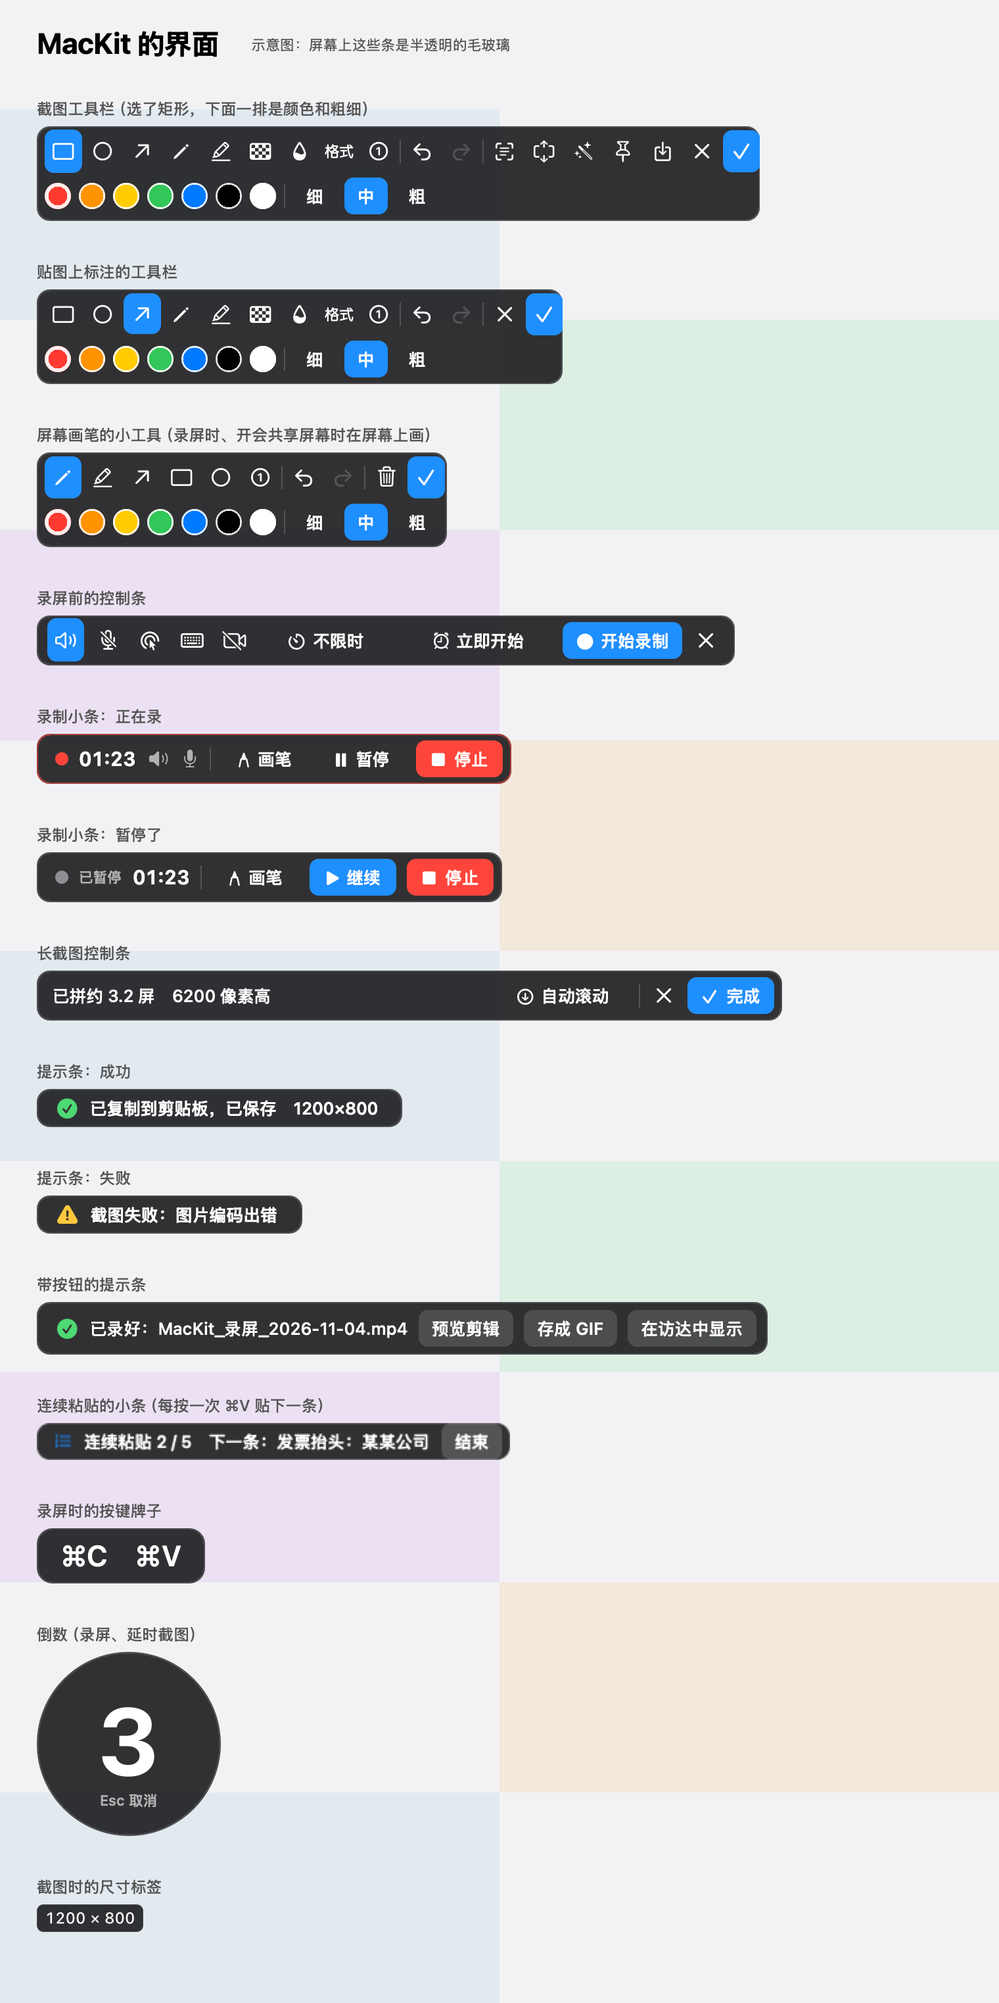
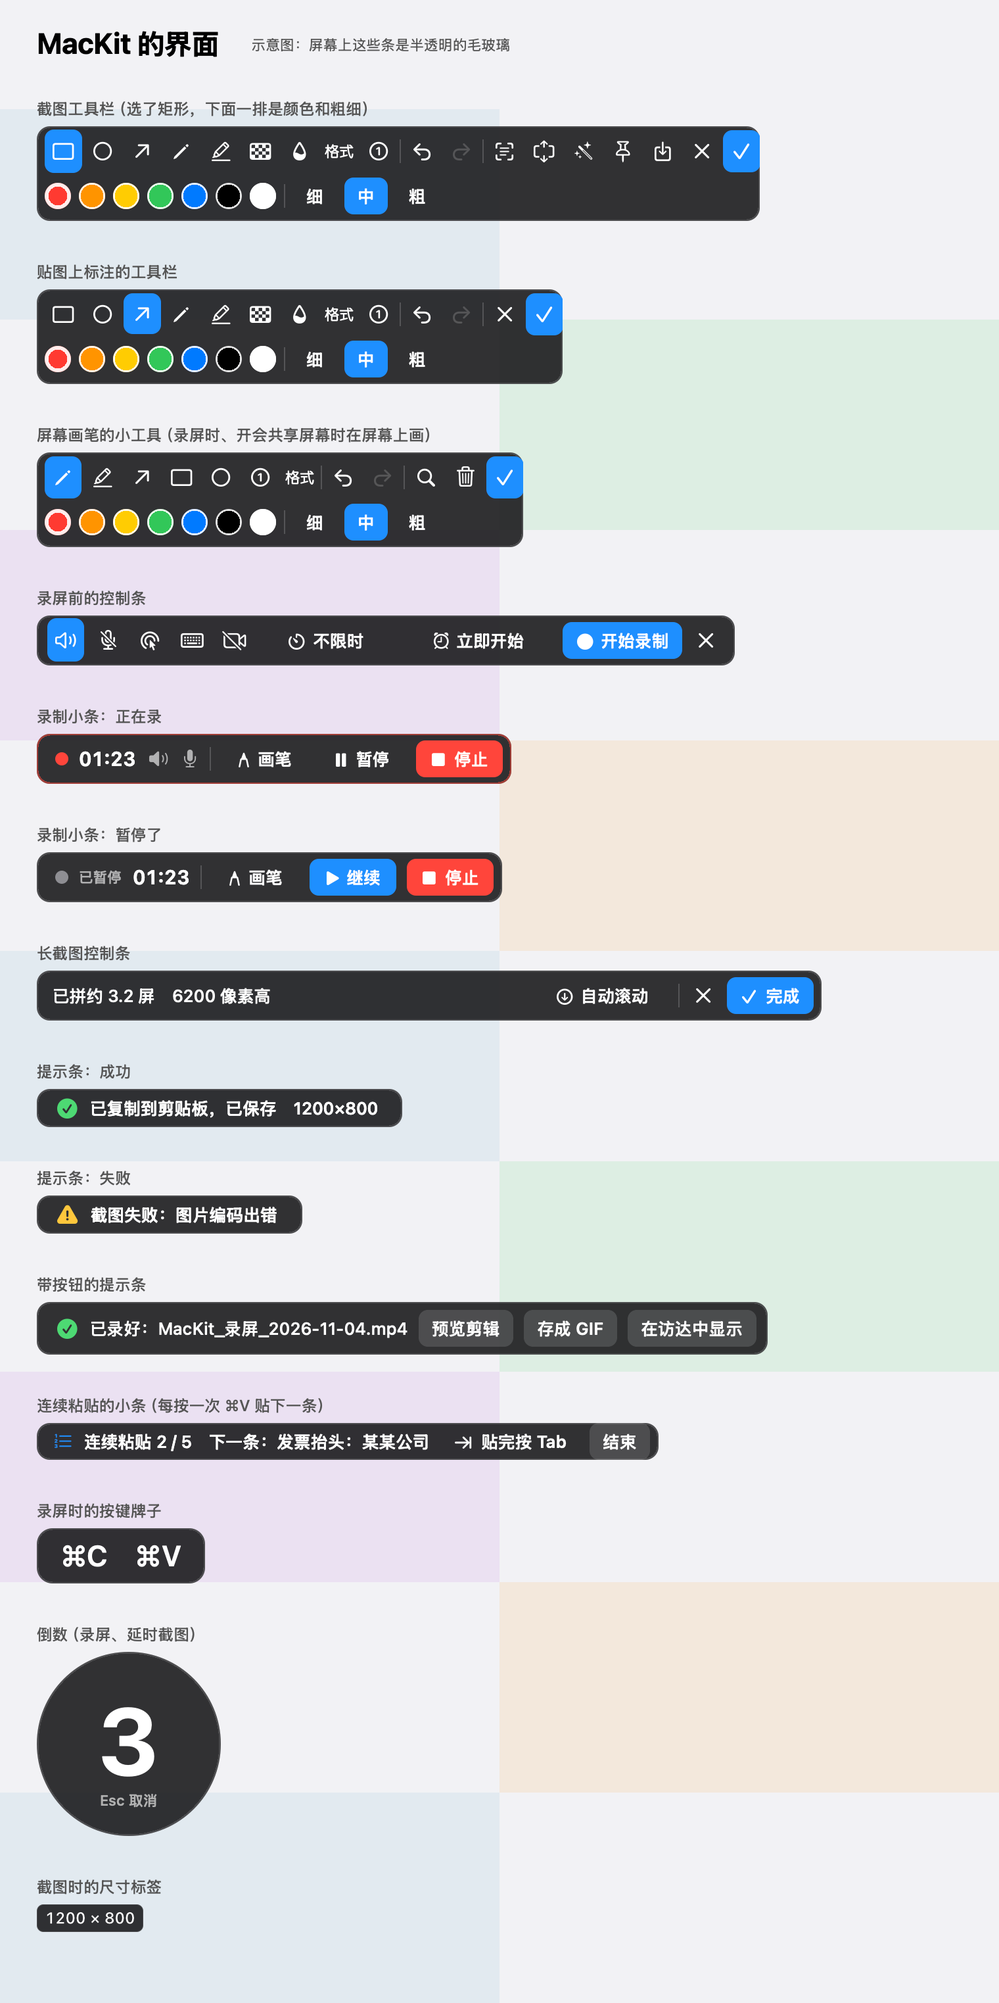
MacKit 3.0.0（台阶 26）
- 发布版改用"MacKit"自签证书签名：从 3.0 往后更新不用重给权限（release.sh 找不到证书就停；--test-update 试"同一个软件"）
- 从 2.x 升上来第一次打开弹一次"MacKit 3.0 装好了"
- 修好：开着识别结果窗口时剪贴板小窗口可能关不掉
- README 补第三版和升级说明；重画界面一览、欢迎窗口；CHANGELOG 3.0.0
- .gitignore 防证书备份进仓库

diff --git a/MacKit/App/SelfTest.swift b/MacKit/App/SelfTest.swift
@@ -1699,6 +1699,13 @@ enum SelfTest {
         func enter() { _ = panel.control(panel.searchField, textView: NSTextView(), doCommandBy: #selector(NSResponder.insertNewline(_:))) }
         func favorite(_ item: ClipboardItem) -> ClipboardItem? { store.items.first { $0.id == item.id } }
 
+        // 11-09 修：关掉识别结果窗口时 MacKit 藏起自己，小窗口跟着被藏、再关不算数 → 关不掉
+        check(!panel.window.canHide, "剪贴板小窗口不跟着\u{201C}隐藏 MacKit\u{201D}一起藏（藏着时关掉会被系统放回来，关不掉）")
+        let stray = tool.makePanel()
+        stray.show(near: CGPoint(x: 400, y: 400), present: false)
+        stray.forceClose()
+        check(ClipboardPanel.visible == nil && !stray.window.isVisible, "旧的小窗口能强制收掉（开新的之前先收旧的）")
+        panel.show(near: CGPoint(x: 400, y: 400), present: false)
         // ⌘G → 新建分组…：还没收藏的先收藏，再放进新组
         check(ClipboardPanel.footerText.contains("⌘G 分组") && ClipboardPanel.footerText.contains("⌘T 改格式粘贴"),
               "小窗口下面的提示里有 ⌘G 分组、⌘T 改格式粘贴")
@@ -3014,6 +3021,18 @@ enum SelfTest {
         check(WhatsNew.message(for: "2.0.0").hasPrefix("MacKit 2.0 装好了") && whatsNew.frame.width < 760 && !whatsNew.isVisible
               && AppLinks.releaseNotes("2.0.0").absoluteString == "https://github.com/itzzan/MacKit/releases/tag/v2.0.0",
               "提示条写着\u{201C}MacKit 2.0 装好了\u{201D}，\u{201C}看看都有什么\u{201D}打开 GitHub 上 2.0 的更新说明（\(Int(whatsNew.frame.width)) 点宽）")
+        // 台阶 26：从 2.x 升到 3.0 弹一次（写上新东西和"这一次要重给权限"），3.0 以后的小更新不弹
+        check(WhatsNew.shouldShow(firstLaunch: .nothing, lastVersion: "2.7.0", current: "3.0.0")
+              && !WhatsNew.shouldShow(firstLaunch: .nothing, lastVersion: "3.0.0", current: "3.0.1")
+              && !WhatsNew.shouldShow(firstLaunch: .nothing, lastVersion: "3.0.0", current: "3.1.0")
+              && !WhatsNew.shouldShow(firstLaunch: .welcome, lastVersion: nil, current: "3.0.0"),
+              "从 2.x 升到 3.0：第一次打开弹一次；3.0.1、3.1 不弹；新用户不弹")
+        let whatsNew3 = Toast.makeActionsPanel(WhatsNew.message(for: "3.0.0"), actions: [("看看都有什么", {})])
+        check(WhatsNew.message(for: "3.0.0").hasPrefix("MacKit 3.0 装好了：标注能多选、长截图能横着拼")
+              && WhatsNew.message(for: "3.0.0").contains("以后更新就不用了") && WhatsNew.message(for: "2.0.0").hasPrefix("MacKit 2.0 装好了")
+              && whatsNew3.frame.width < 820 && !whatsNew3.isVisible
+              && AppLinks.releaseNotes("3.0.0").absoluteString == "https://github.com/itzzan/MacKit/releases/tag/v3.0.0",
+              "3.0 的提示条：写着新东西和这一次要重给权限，两行（\(Int(whatsNew3.frame.width)) 点宽），\u{201C}看看都有什么\u{201D}打开 3.0 的更新说明")
         let parts = AppInfo.version.split(separator: ".").compactMap { Int($0) }
         check(parts.count == 3 && parts[0] >= 1, "版本号是三段数字、1 以上：\(AppInfo.version)")
     }

diff --git a/MacKit/Tools/Clipboard/ClipboardPanel.swift b/MacKit/Tools/Clipboard/ClipboardPanel.swift
@@ -76,6 +76,9 @@ final class ClipboardPanel: NSObject, NSTableViewDataSource, NSTableViewDelegate
         window.hasShadow = true
         window.isReleasedWhenClosed = false
         window.hidesOnDeactivate = false
+        // 别跟着"隐藏 MacKit"一起藏：关掉识别结果这类窗口时 MacKit 会把自己藏起来交还焦点，
+        // 小窗口要是那一刻被藏着，再关它就不算数，系统下次又把它放回来，成了关不掉的空壳（11-09 你碰到的）
+        window.canHide = false
         window.animationBehavior = .none
         window.collectionBehavior = [.canJoinAllSpaces, .fullScreenAuxiliary, .transient, .ignoresCycle]
         window.delegate = self
@@ -212,6 +215,12 @@ final class ClipboardPanel: NSObject, NSTableViewDataSource, NSTableViewDelegate
         Self.visible = nil
         window.orderOut(nil)
         if returnFocus, NSApp.isActive, NSApp.modalWindow == nil { NSApp.hide(nil) }
+    }
+
+    /// 不管现在登记的是不是它，都收起来（开新的小窗口之前把旧的收干净）
+    func forceClose() {
+        if Self.visible === self { Self.visible = nil }
+        window.orderOut(nil)
     }
 
     func windowDidResignKey(_ notification: Notification) {

diff --git a/MacKit/Core/Settings.swift b/MacKit/Core/Settings.swift
@@ -476,6 +476,10 @@ enum WhatsNew {
 
     static func message(for version: String) -> String {
         let major = AppVersion.parts(version).first ?? 2
+        if major >= 3 {        // 台阶 26：换了签名，从 2.x 升上来这一次要重给权限
+            return "MacKit \(major).0 装好了：标注能多选、长截图能横着拼、录屏能自动推近、剪贴板能分组、测量能量间距\n"
+                + "这一次要重新打开屏幕录制、辅助功能权限，以后更新就不用了"
+        }
         return "MacKit \(major).0 装好了：截图能美化、剪贴板能收藏、设置都在菜单最下面"
     }
 }

diff --git a/MacKit/Tools/Clipboard/ClipboardTool.swift b/MacKit/Tools/Clipboard/ClipboardTool.swift
@@ -66,6 +66,9 @@ final class ClipboardTool: ToolModule {
             return
         }
         guard SelectionSession.active == nil, MeasureSession.active == nil else { return }    // 截图、测量中不弹
+        // 开新的之前，把旧的小窗口（万一还在屏幕上）都收掉，屏幕上最多只有一个
+        panel?.forceClose()
+        for w in NSApp.windows where w is ClipboardPanelWindow && w.isVisible { w.orderOut(nil) }
         let p = makePanel()
         panel = p
         p.show(near: NSEvent.mouseLocation)

diff --git a/docs/开发记录/台阶26-发布3.0.md b/docs/开发记录/台阶26-发布3.0.md
@@ -1,4 +1,4 @@
-# 台阶 26：发布 MacKit 3.0（以后更新不用重给权限）— 任务单（已拍板）
+# 台阶 26：发布 MacKit 3.0（以后更新不用重给权限）— 任务单（已拍板，11-12 发布）
 
 > 2026-11-06 写，同日你审过：四条都按建议。第三版的最后一阶：把台阶 19–25 做的东西一起公开发布成 3.0。原来排在台阶 25，你加了横向长截图，顺延成 26。
 > 第三版方案已拍板（第 4 条）：发布版改用一张专门给 MacKit 的签名证书，以后更新不用重给权限；证书名字写"MacKit"，你在"钥匙串访问"里做，要备份。
@@ -84,6 +84,55 @@
 4. README 里的图
    - A. 重画"界面一览"（多了上下层按钮、画笔的文字和放大镜、"贴完按 Tab"）和"欢迎窗口"（3.0.0）；"设置窗口"那张画的是快捷键页，没变，不动（建议）；都是 MacKit 自己画的，不截你的屏幕
    - B. 只改文字，图不动
+
+## 做了什么、自动检查了什么（11-06，发布前的收拾）
+
+| 检查 | 结果 |
+|---|---|
+| 单元测试 241 条 | 全过 |
+| 编译（Xcode 26.3） | 没有错误和警告 |
+| 应用自检 615 条（新增 2 条：从 2.x 升到 3.0 弹一次、3.0.1 / 3.1 / 新用户不弹；3.0 的提示条两行 702 点宽，"看看都有什么"打开 v3.0.0 的更新说明） | 全过 |
+| 你这台装 3.0.0 | ⌘1–⌘6 照旧注册，剪贴板 148 条都在；日志里"whats new 3.0.0"，弹了一次提示条 |
+| release.sh 试跑（不用证书、临时签名） | 签名和包里的检查都过；另打的测试版 2.7.1 **不符合** 2.7.0 的签名要求（要求里写死了那一个包的指纹）——正好说明临时签名为什么每次都丢权限；换成"MacKit"证书以后，要求写的是"这张证书"，新版本就符合了（等你做好证书再实测） |
+
+改了哪些：
+- release.sh：默认用钥匙串里的"MacKit"证书签名，找不到就停下、说去哪看怎么做；签名里只许有"MacKit"这一张证书，取出证书看上面只有名字（有邮箱、单位、城市就停）；原来的团队编号、开发证书名字、邮箱检查照旧；加了 --test-update：另打一个下一个版本号的测试包（build/release-test/，名字里写着"别发布"），用系统的签名检查确认它和正式包是同一个软件；最后把"签名要求"打出来
+- .gitignore：加上 *.p12、*.cer、*.certSigningRequest
+- 老用户提示：3.x 写"MacKit 3.0 装好了：标注能多选、长截图能横着拼、录屏能自动推近、剪贴板能分组、测量能量间距"，第二行"这一次要重新打开屏幕录制、辅助功能权限，以后更新就不用了"（你这台其实不用重给）
+- README：能干什么补上第三版（多选复制上下层、截完调框、美化比例和背景色、长截图横着拼和标注、录屏自动推近）；安装一节加"从 2.x 升级到 3.0"；常见问题"更新后截图不行了"改成 3.0 以后不用重给
+- 两张图重画：界面一览（屏幕画笔小工具多了文字、放大镜，连续粘贴小条多了"贴完按 Tab"，长截图控制条宽了一点）、欢迎窗口（3.0.0）；设置窗口那张没动
+- CHANGELOG："未发布"改成"3.0.0（2026-11-12）"（发布那天），开头加一句第三版是什么、签名和老用户提示两条
+- 版本号 3.0.0（build 31）
+- 更新说明草稿：build/发布说明-3.0.0.md（不进 git；校验码等打好安装包再填）
+
+### 证书（11-09 做好）
+
+- 你没走"证书助理"那十几页，改成在终端里跑我写的一条命令（我先在临时文件夹里试过一遍，没碰你的钥匙串）：用系统自带的 openssl 做一张只写着"MacKit"的代码签名证书，10 年；备份存成 文稿/MacKit-证书备份.p12（密码你自己设、记在密码管理器里）；再放进登录钥匙串，允许 codesign 用
+- 我只读地查过：钥匙串里有一张能签代码的"MacKit"，证书上只有名字（没有邮箱、单位），2036 年 11 月到期；项目文件夹里没有 .p12
+
+### 安装包（11-09）
+
+- scripts/release.sh --test-update 跑完：第一次签名时钥匙串弹窗，你点了"始终允许"
+- build/release/MacKit-3.0.0.dmg：3,675,231 字节，Apple 芯片 + Intel；里面是 MacKit 3.0.0（build 32）和"应用程序"的快捷方式
[1 lines of base64/hex data omitted]
+- 签名：证书只有"MacKit"，没有团队编号，签名有效；包里没有邮箱
+- 签名要求：`identifier "local.mackit.MacKit" and certificate leaf = H"0ae5b42e894c6bc17fdf51ee9a5308b099a39f3b"`——只认"标识 + 这张证书"，不认是哪一个包
+- 测试版 build/release-test/MacKit-3.0.1-测试版-别发布.dmg：**符合 3.0.0 的签名要求**，系统会认成同一个软件，权限不用重给（之前用临时签名试，测试版不符合——这就是以前每次都丢权限的原因）
+- 你这台的"安全性"设置里关掉了 Gatekeeper（任何来源的软件都能开），所以在你这台看不到"仍要打开"那一步；我没动这个设置，真的试装要在另一台 Mac 上走
+
+### 试装（11-12，通过）
+
+- 你在另一台 Mac 上：装 3.0.0 →"仍要打开"→ 开屏幕录制 → 截图能用；换成测试版 3.0.1 → 什么设置都没碰，截图照样能用，"录屏与系统录音"里只有一个 MacKit 开着；再装回正式版 3.0.0
+- 也就是说：从 3.0 往后再发新版本，别人更新不用重给权限
+
+### 你试的时候发现：剪贴板小窗口关不掉（11-09 修好，你试过好了）
+
+- 你说"点击剪贴板，关不掉了"。我只读地查了屏幕上的窗口和 MacKit 的日志：14:26:46 你从菜单打开剪贴板小窗口，那时 13:29 的识别结果窗口还开在后面；14:26:49 识别窗口关掉，最后一个识别窗口关掉时 MacKit 会把自己藏起来交还焦点，小窗口跟着被藏；它这时"失去焦点"去关自己，可藏着的时候关不算数，MacKit 已经忘了它，系统下次 MacKit 出来时又把它放回屏幕——成了没人管的空壳：Esc、点别处、⌘3 都关不掉，⌘3 每按一次还另开一个新的
+- 这不是第三版新出的，2.x 就有，要"识别结果窗口开着 + 用剪贴板 + 关掉识别窗口"凑一起才会碰到
+- 改法：剪贴板小窗口不跟着"隐藏 MacKit"一起藏；每次开新的小窗口之前，把旧的（万一还在）都收掉，屏幕上最多一个
+- 自检新增 2 条（小窗口不跟着藏、旧的能强制收掉），自检 617 条全过；版本号还是 3.0.0（还没发布），build 32，已装好（重开 MacKit 也把那个空壳清掉了）
+
+还没做（要等你的证书）：用"MacKit"证书打正式安装包和测试版、实测"同一个软件"、试装、发布。
 
 ## 怎么验收
 

diff --git a/README.md b/README.md
@@ -6,11 +6,11 @@
 
 ## 能干什么
 
-- **截图**：框选区域、单击选窗口、整屏、延时截图；截完直接标注（矩形、椭圆、箭头、画笔、荧光笔、马赛克、模糊、文字、序号），画好的点一下还能拖、改大小、换颜色、删掉；复制并存成 PNG
-- **截图美化**：一键加渐变背景、留白、圆角、阴影，发群里、写文档好看
-- **长截图**：框住网页或聊天记录往下滚，自动拼成一张长图，固定的导航栏、输入框只留一份；很宽的表格往右滚也能横着拼；也能让它自动滚
+- **截图**：框选区域、单击选窗口、整屏、延时截图；截完直接标注（矩形、椭圆、箭头、画笔、荧光笔、马赛克、模糊、文字、序号），画好的点一下还能拖、改大小、换颜色、删掉，能框选好几个一起改、复制一份、放到最上 / 最下；画了以后还能拖框的边改范围；复制并存成 PNG
+- **截图美化**：一键加渐变背景、留白、圆角、阴影，能选 16:9 / 4:3 / 1:1、自己挑背景色，发群里、写文档好看
+- **长截图**：框住网页或聊天记录往下滚，自动拼成一张长图，固定的导航栏、输入框只留一份；很宽的表格往右滚也能横着拼；也能让它自动滚；拼好能直接标注
 - **贴图**：把截图、剪贴板里的图片或文字钉在屏幕最上层，滚轮缩放、调透明、鼠标穿透、旋转翻转、裁剪，贴图上也能标注；关掉的贴图能找回来
-- **录屏**：区域、窗口、整屏，系统声音和麦克风；暂停继续、定时、预览剪辑、存成 GIF；显示鼠标点击和按键、摄像头画中画；录的时候直接在屏幕上圈圈画画
+- **录屏**：区域、窗口、整屏，系统声音和麦克风；暂停继续、定时、预览剪辑、存成 GIF；显示鼠标点击和按键、摄像头画中画；录的时候直接在屏幕上圈圈画画；录完能自动推近（点鼠标的地方自动放大、跟着鼠标走）
 - **剪贴板历史**：文字、图片、文件都记下来，打字就能搜（截图里的字也能搜），回车粘贴；常用的收藏起来、起名字、分组；⌘T 改格式粘贴（PDF 里复制的断行接成一段、改大小写）；不记某些软件；连续粘贴（复制几段，⌘V 一条条贴出来，可以贴完自动按 Tab）；密码不记
 - **识别**：框选识别文字（中英日韩）和二维码，结果能直接翻译（用系统自带的翻译，在电脑上翻）；截图时取色，最近的颜色记在菜单里，存成调色板（起名字、复制成 CSS / JSON）；测量宽高、两个东西之间的间距和对齐
 - **小工具**：屏幕画笔（开会共享屏幕时圈重点、在屏幕上打字、放大镜）、防休眠、看 CPU / 内存 / 网速 / 磁盘 / 电池、系统排窗口快捷键的小抄
@@ -31,6 +31,8 @@
    - 先点"完成"关掉提示
    - 打开"系统设置 → 隐私与安全性"，往下翻，看到"已阻止打开 MacKit"，点"仍要打开"，输入开机密码
 4. 屏幕右上角菜单栏出现一个扳手图标，同时弹出欢迎窗口：按里面的提示开权限、选一套快捷键
+
+从 2.x 升级到 3.0：直接把新的拖进"应用程序"替换掉旧的，设置、剪贴板历史、收藏、调色板都还在。3.0 换了签名方式，**这一次**要在"录屏与系统录音""辅助功能"里重新打开一次 MacKit；从 3.0 往后再更新就不用了。
 
 想确认下载的安装包没被改过：Releases 页面写着它的 SHA-256，在终端里运行 `shasum -a 256 ~/Downloads/MacKit-*.dmg` 对一下。
 
@@ -72,7 +74,7 @@
 屏幕录制权限没开好：打开"系统设置 → 隐私与安全性 → 录屏与系统录音"，打开 MacKit。已经开着还不行：选中 MacKit，点下面的"−"删掉，再按一次截图快捷键重新授权。
 
 **更新到新版本后截图不行了、自动粘贴不行了**
-同上：在"录屏与系统录音"和"辅助功能"里各删掉 MacKit 重新授权。MacKit 没做苹果公证，每个新版本系统都当成一个新软件。设置、剪贴板历史、收藏都还在，不用重新弄。
+从 3.0 起，发布版都用同一张"MacKit"证书签名，系统认得是同一个软件，更新后权限不用重给。从 2.x 或更早升到 3.0 时要最后重给一次：在"录屏与系统录音"和"辅助功能"里各删掉 MacKit，再打开 MacKit 重新授权。设置、剪贴板历史、收藏都还在，不用重新弄。
 
 **按一下快捷键弹出两个截图**
 Snipaste、QQ 之类的软件也用了同一个快捷键。退出它们，或者在 MacKit 的"设置… → 快捷键"里换一个。

diff --git a/docs/开发记录/方案.md b/docs/开发记录/方案.md
@@ -269,8 +269,12 @@ sudo xcodebuild -runFirstLaunch
 - [x] 台阶 25 写代码：11-06 写完，自动检查全过（单元 241、自检 613、实录检查竖着横着都过），2.7.0 已装好并在运行
 - [x] 你亲手验收台阶 25，通过（11-06）
 - [x] 台阶 26 发布 3.0：任务单 docs/开发记录/台阶26-发布3.0.md 你审过（11-06，都按建议：证书 10 年、在另一台 Mac 或测试账户里试更新不丢权限、2.x 老用户弹一次提示、重画界面一览和欢迎窗口）
-- [ ] 你做好"MacKit"证书并备份
-- [ ] 台阶 26 发布前的收拾
+- [x] 你做好"MacKit"证书并备份（11-09，在终端里跑我写的一条命令做的；备份在 文稿/MacKit-证书备份.p12）
+- [x] 台阶 26 发布前的收拾：11-06 做完（单元 241、自检 615；release.sh 改用 MacKit 证书；README、两张图、CHANGELOG、老用户提示），3.0.0 已装在你这台
+- [x] 你试的时候发现剪贴板小窗口关不掉（开着识别结果窗口时）：11-09 修好，3.0.0（build 32）已装好，你试过好了
+- [x] 用证书打好安装包（11-09：3.0.0 安装包签名只有"MacKit"；测试版 3.0.1 系统认成同一个软件）
+- [x] 在另一台 Mac 试装：装 3.0.0 给权限 → 换测试版 3.0.1 不用重给，通过（11-12）
+- [ ] 发布
 
 ### 以后统一优化（你说先记着，之后一起做）
 

diff --git a/CHANGELOG.md b/CHANGELOG.md
@@ -1,7 +1,12 @@
 # 更新记录
 
-## 未发布（第三版进行中，做完一起发布成 3.0）
+## 3.0.0（2026-11-12）
 
+第三版：标注更顺手、截图和长截图更能干、录屏会自动推近、剪贴板更好管、测量和取色更像设计工具；以后更新不用重给权限。
+
+- 发布版改用一张专门的"MacKit"签名证书：从 3.0 往后更新，屏幕录制、辅助功能权限不用重给（从 2.x 升到 3.0 还要最后重给一次）
+- 从 2.x 升上来第一次打开：弹一次提示条，"看看都有什么"打开这一版的更新说明
+- 修好：开着识别结果窗口时打开剪贴板小窗口，再关掉识别窗口，剪贴板小窗口可能关不掉（Esc、点别处、⌘3 都没用，⌘3 还会再开一个）
 - 标注：一次选好几个——⇧ 点加选 / 去掉、⇧ 在空白处拖框选、⌘A 全选；一起拖、方向键一起挪、一起换颜色粗细、⌫ 一起删
 - 标注：⌘D 复制一份（序号接着编），按住 ⌥ 拖出一份
 - 标注：放到最上 / 最下（工具栏按钮或 ⌘] ⌘[）
